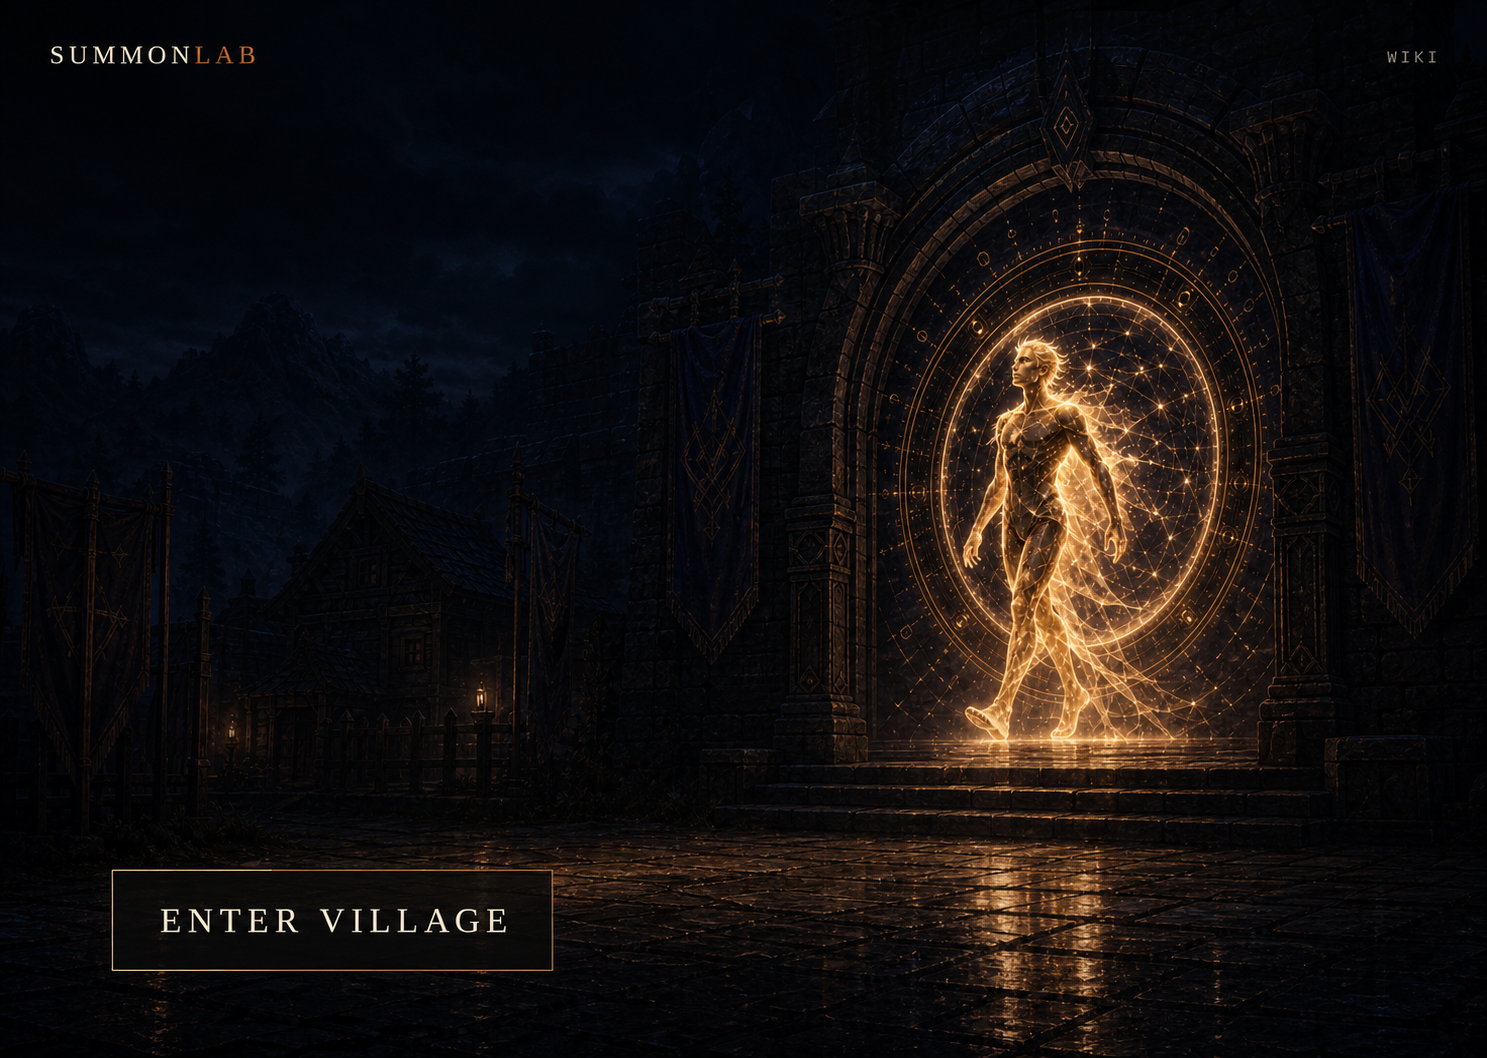
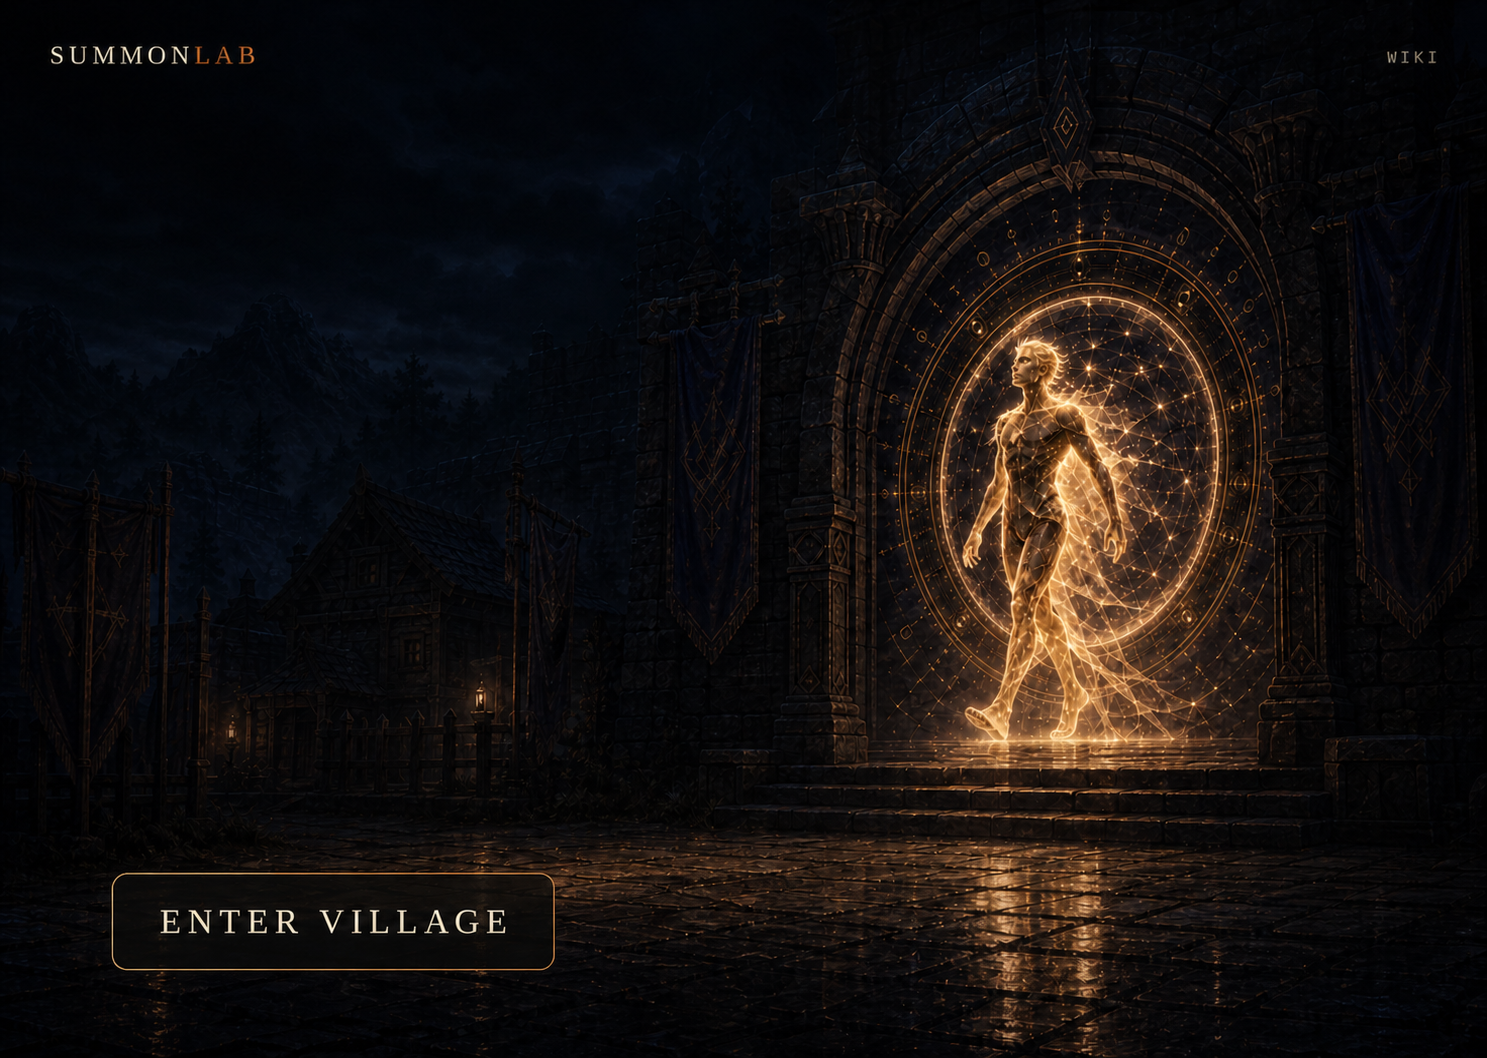
docs: freeze Living Village visual foundation

diff --git a/docs/superpowers/specs/2026-09-02-living-village-client-visual-direction-design.md b/docs/superpowers/specs/2026-09-02-living-village-client-visual-direction-design.md
@@ -1,6 +1,6 @@
 # Living Village client visual direction
 
-**Status:** Proposed for visual approval
+**Status:** Visual foundation approved; system flows exploratory
 
 **Date:** 2026-09-02
 
@@ -19,6 +19,8 @@ not alter gameplay contracts or shared content catalogs.
 ## Approved product decisions
 
 1. The title page contains the Summonlab mark, one `Enter Village` action, and a quiet `Wiki` link.
+   The primary action uses a restrained 10–12 px corner radius: warmer and more clickable, but not a
+   pill.
 2. Sign-in may follow `Enter Village` later, but is outside this phase.
 3. Village navigation exists only inside the Village experience.
 4. The Wiki remains a separate destination, not a persistent game-navigation item.
@@ -31,6 +33,21 @@ not alter gameplay contracts or shared content catalogs.
 9. Inventory has two meanings only: the shared Village Inventory and a temporary per-hero Mission
    Inventory.
 10. Mission packs are suggested automatically and remain editable before departure.
+
+## Freeze boundary
+
+The following visual foundation is approved and should not be reopened during routine screen design:
+
+- the title gateway composition on desktop and phone;
+- the dark observatory material language, ember-gold structure, and cyan living-focus accent;
+- the centered, scene-first desktop Village composition;
+- bright facility labels attached to their targets with fine leader lines;
+- the cyan circle and arrow used to identify a selected hero in the scene;
+- the five-destination phone navigation pattern and bottom placement.
+
+Approval of the composition does not freeze the mature settlement shown in the exploratory Village
+mockups as the launch-state population or construction state. Inventory layout, mission packing details,
+return reconciliation, Tower/Gate separation, and settlement progression remain open design work.
 
 ## Visual thesis: the inhabited observatory
 
@@ -128,6 +145,26 @@ Phone treats the Village as a vertical, explorable home rather than a compressed
 - when the keyboard or a blocking confirmation opens, the bar may temporarily yield.
 
 Mockup: [phone Village home](../../design-proposals/living-village-ui/mockups/village-home-phone.png).
+
+### Settlement growth
+
+The current panorama represents the visual ceiling of a mature, inhabited Village, not the initial
+state. The home surface must tell the truth about the player's settlement and roster.
+
+| Visual stage | World presentation |
+| --- | --- |
+| Starting Village | Three to five visible summoned residents, the portal/gate landmark, only the facilities actually available, dark or empty plots, and generous negative space |
+| Growing Village | Newly built structures occupy established plots; scaffolding, work light, smoke, and a few purposeful residents communicate progress without background crowds |
+| Mature Village | The denser illuminated panorama, broader activity, and full facility labeling shown by the current exploratory mockups |
+
+These are visual stages, not gameplay thresholds or content-catalog definitions. The runtime scene should
+derive visible residents from the actual roster and facility presence from actual settlement state. It
+must not use decorative crowds that imply heroes or workers the player does not have.
+
+The camera composition, navigation anchors, and major plots should remain stable across stages so growth
+feels additive. Construction fills deliberate absences; it should not replace the whole Village with an
+unrelated background. A future design pass must establish the starting plot map, the first available
+facility set, and transitions for construction and arrival.
 
 ### Facility pointer states
 
@@ -271,10 +308,11 @@ entries.
 - replacing the Wiki content system;
 - finalizing illustration, portrait, or icon production assets;
 - defining inventory balance, capacity, item rarity, or mission rewards.
+- defining gameplay thresholds for settlement population or construction stages.
 
-## Visual acceptance criteria
+## Remaining visual acceptance criteria
 
-The direction is ready for implementation planning when reviewers agree that:
+The unresolved system work is ready for implementation planning when reviewers agree that:
 
 1. the title reads as a gateway with one unmistakable action;
 2. Wiki and Village feel related but remain structurally independent;
@@ -288,6 +326,9 @@ The direction is ready for implementation planning when reviewers agree that:
 10. the return-to-Village custody rule is visible before departure;
 11. the direction does not imply new runtime contracts or canonical catalog content;
 12. reduced-motion and keyboard/touch behavior are defined, not deferred.
+13. the starting Village visibly contains only the roster and constructed facilities the player has;
+14. settlement growth preserves the approved composition while making progression visible;
+15. Tower and Gate either have clearly distinct jobs or are intentionally consolidated.
 
 ## Phase-one deliverable
 

diff --git a/docs/design-proposals/living-village-ui/README.md b/docs/design-proposals/living-village-ui/README.md
@@ -1,12 +1,34 @@
 # Living Village client visual proposal
 
-**Status:** Proposed for visual approval
+**Status:** Visual foundation approved; system flows exploratory
 
 **Date:** 2026-09-02
 
 This packet turns the current client audit and the approved concept discussion into a durable phase-one
 design proposal. It contains mockups and interaction guidance only. It does not modify runtime code,
 gameplay contracts, or shared content catalogs.
+
+## Decision status
+
+### Freeze now
+
+- the minimal title gateway and its restrained, slightly rounded `Enter Village` button;
+- the dark observatory palette, ember-gold structure, and cyan living-focus accent;
+- a scene-first, centered Village composition on desktop;
+- direct facility labels with fine leader lines;
+- the cyan circle and arrow that connect a selected hero to the world;
+- the five-destination phone navigation pattern and placement.
+
+### Continue designing
+
+- the sparse starting Village and its visible growth into the mature panorama;
+- the exact Village Inventory organization and assignment interactions;
+- the detailed suggested-packing and return-reconciliation sequence;
+- whether Tower and Gate remain separate destinations;
+- production feasibility, responsive collision handling, and final asset requirements.
+
+The immediate goal is to freeze the foundation above, then use it to design the unresolved gameplay
+surfaces without repeatedly reopening the entire art direction.
 
 ## Review order
 
